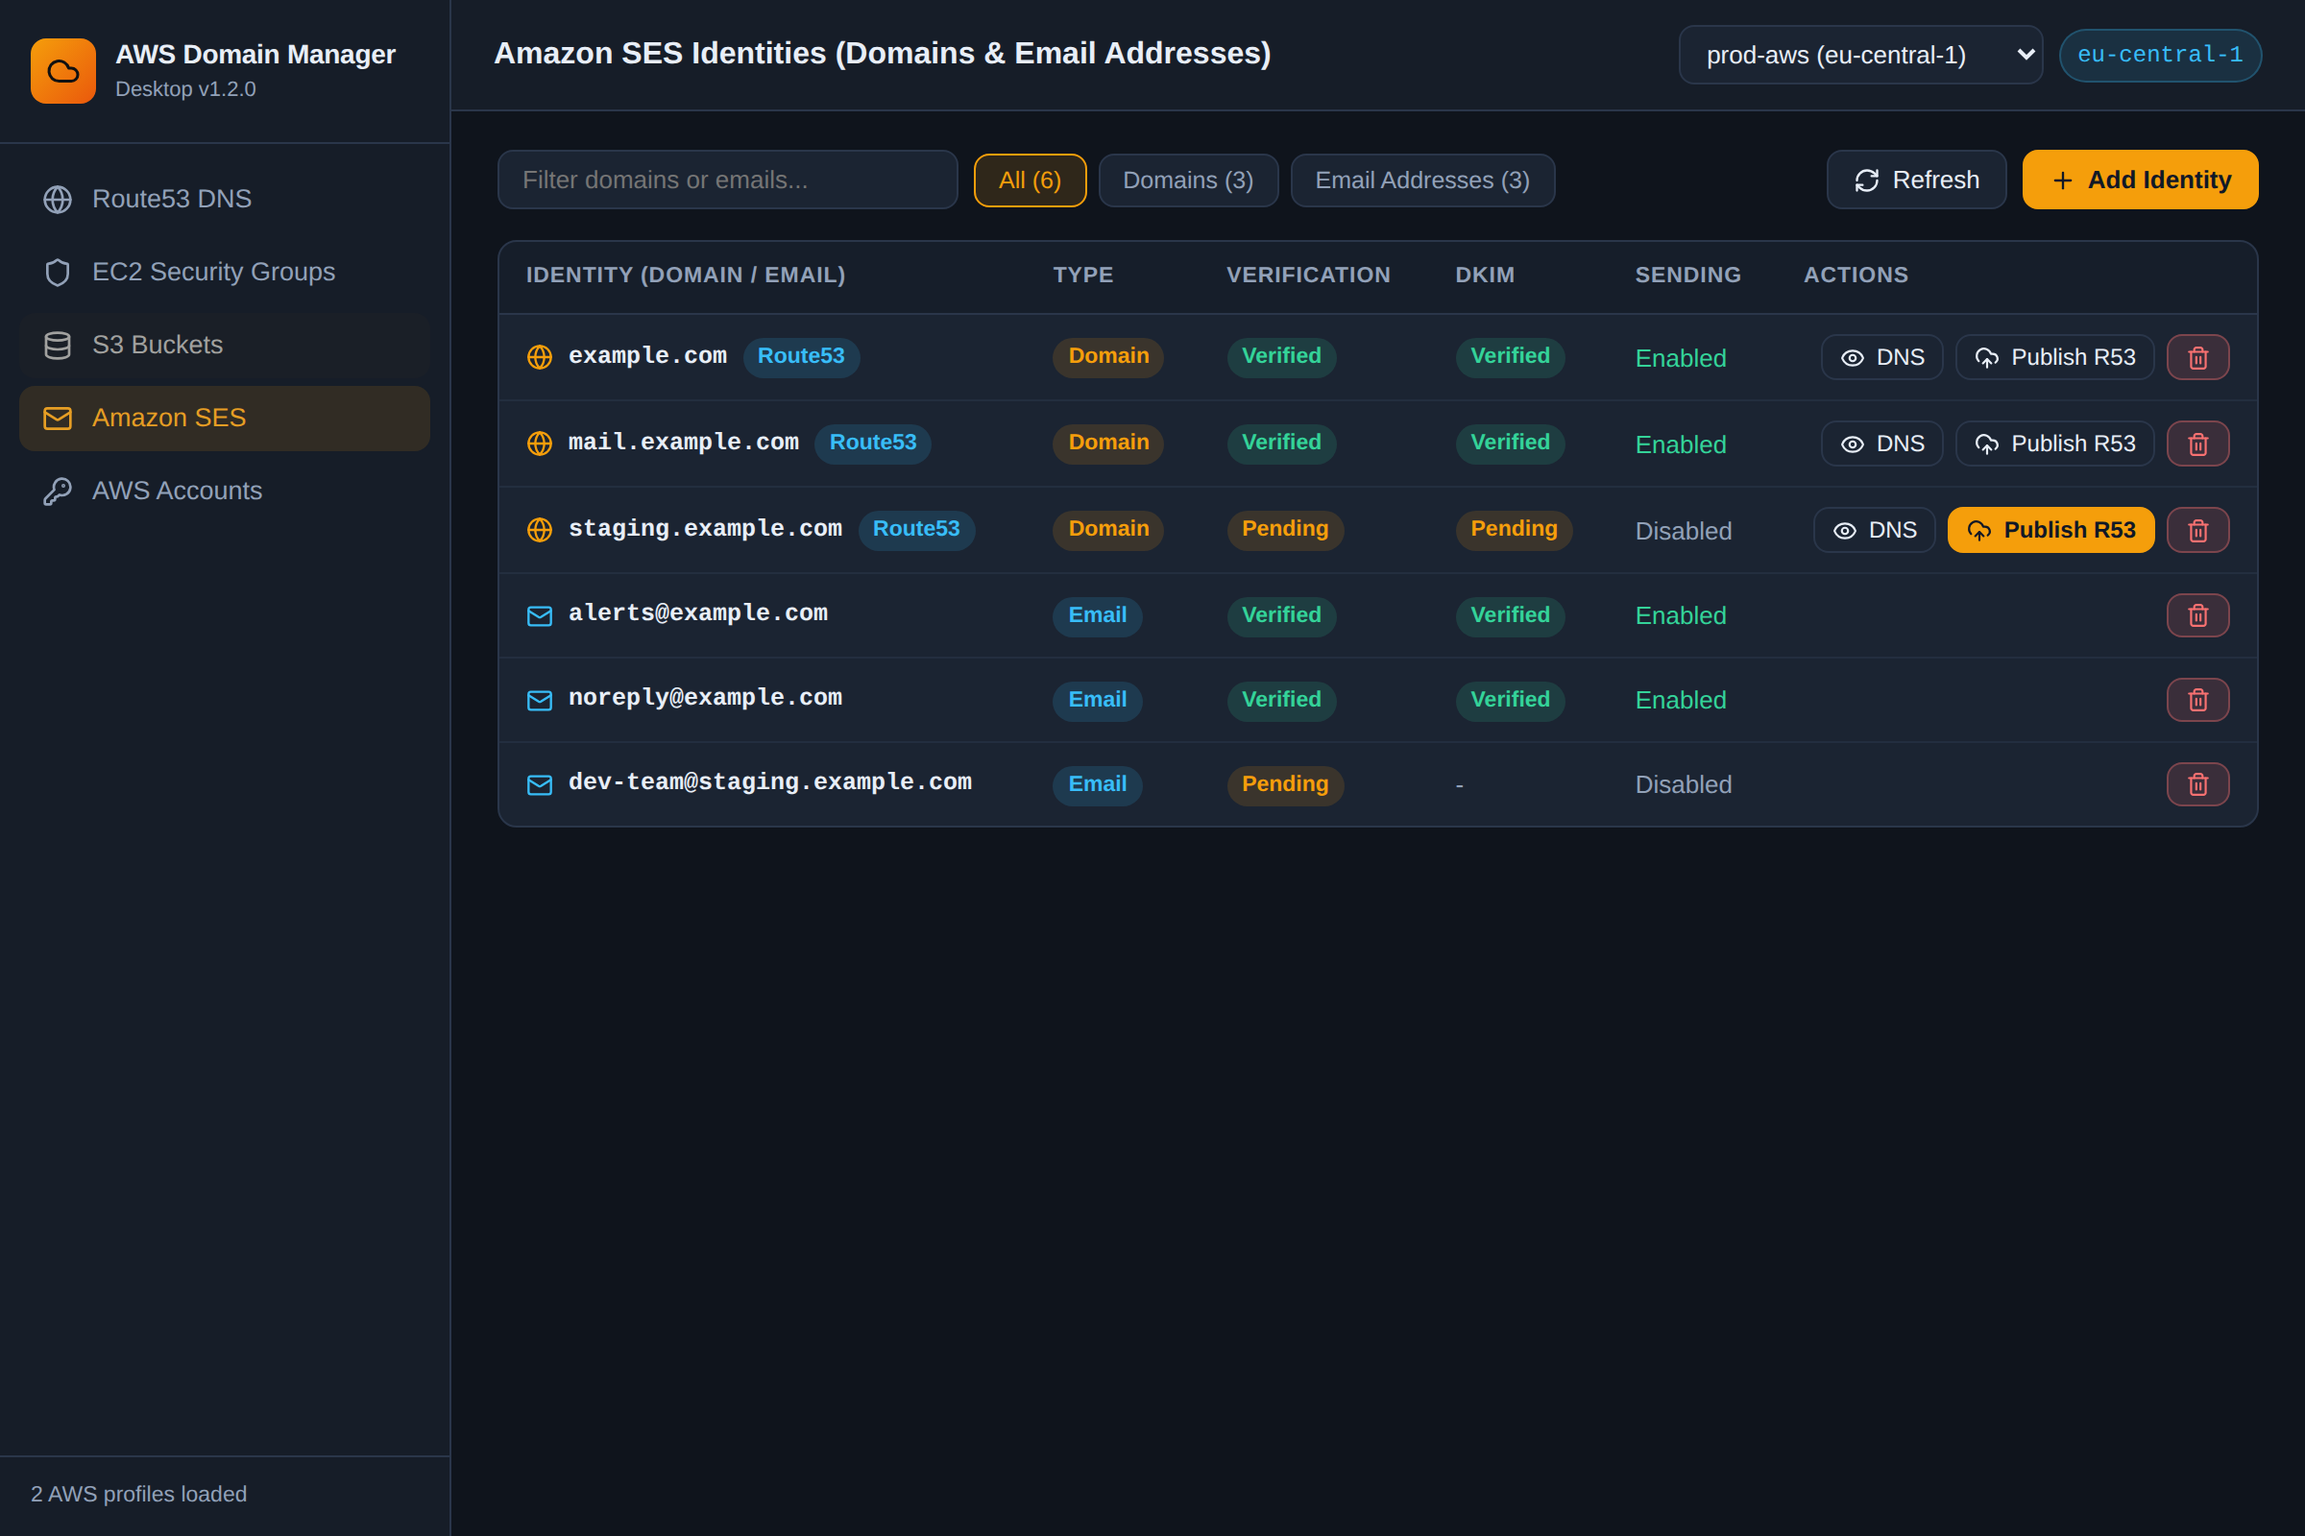
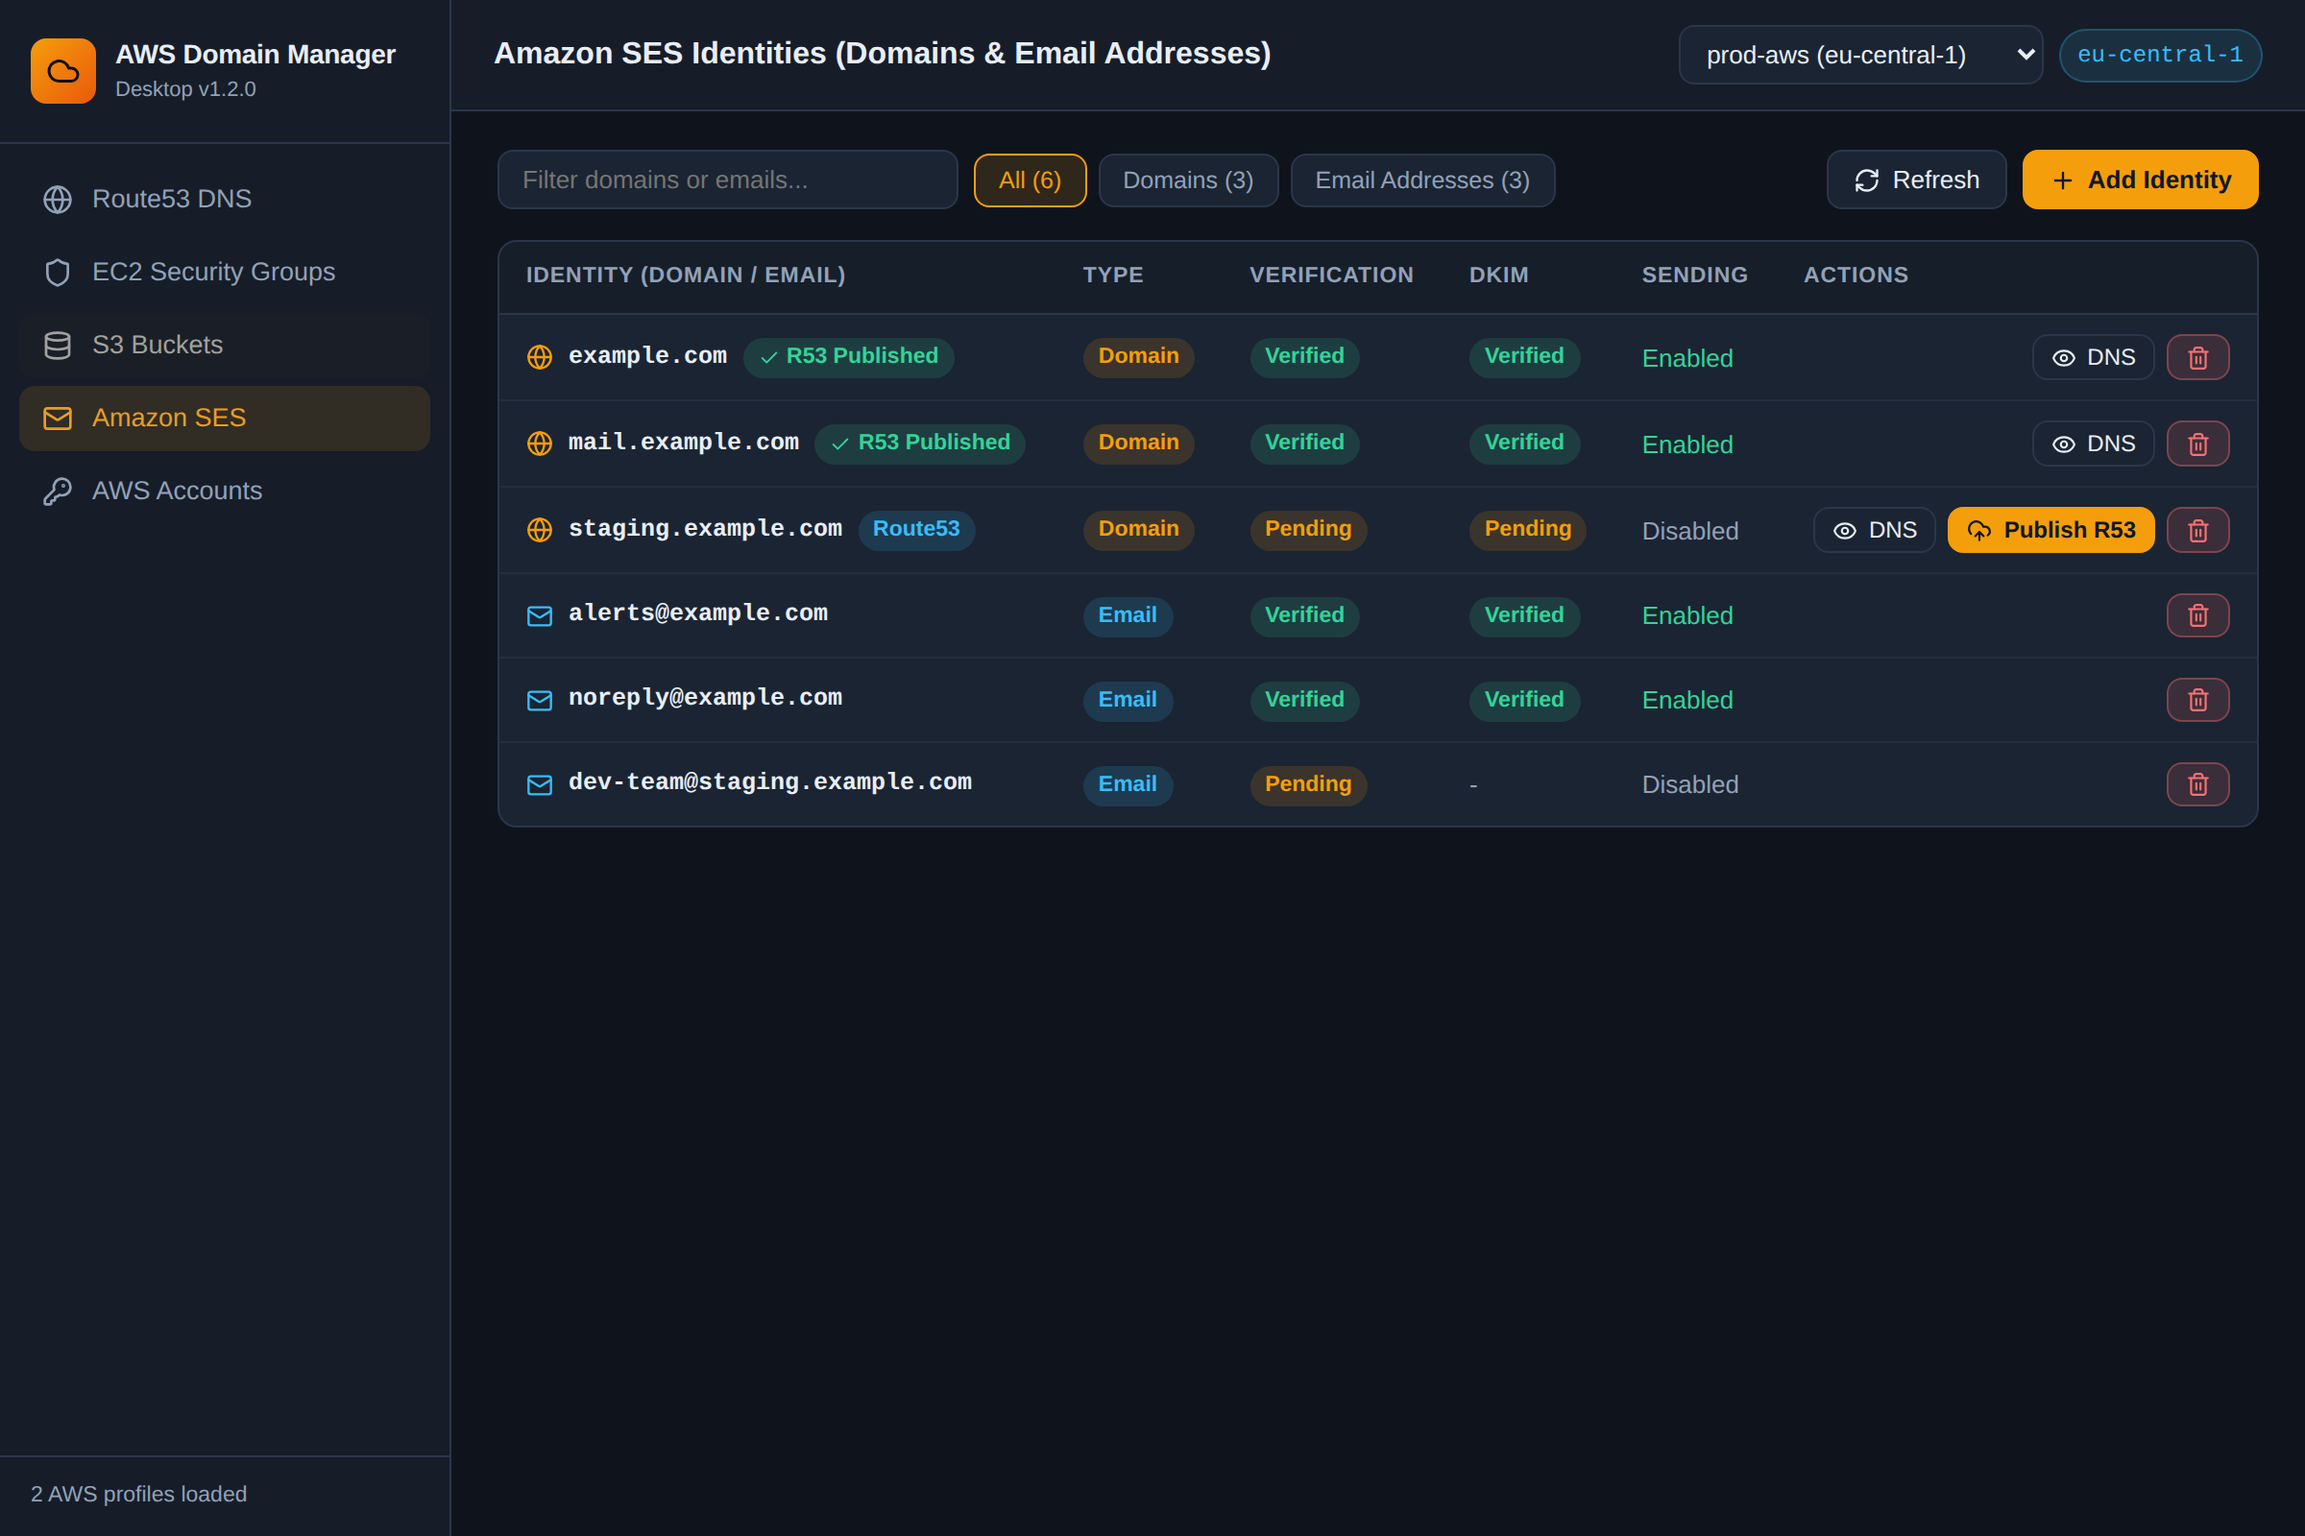
Check Route53 zone records to hide Publish R53 button when DKIM CNAMEs are already published

diff --git a/desktop/src/components/SesView.tsx b/desktop/src/components/SesView.tsx
@@ -180,7 +180,8 @@ export const SesView: React.FC<Props> = ({ account, onError, onSuccess }) => {
                 {filtered.map((item) => {
                   const isDomain = item.identityType === 'DOMAIN';
                   const hasTokens = (item.dkimTokens?.length || 0) > 0;
-                  const needsDkimPublish = isDomain && item.dkimStatus !== 'SUCCESS';
+                  const alreadyPublished =
+                    Boolean(item.dkimRecordsPublished) || item.dkimStatus === 'SUCCESS';
                   return (
                     <tr key={item.identityName}>
                       <td style={{ fontWeight: 600 }}>
@@ -193,10 +194,16 @@ export const SesView: React.FC<Props> = ({ account, onError, onSuccess }) => {
                           <span className="mono">{item.identityName}</span>
                           {item.matchedZoneName && (
                             <span
-                              className="badge badge-blue"
-                              title={`Managed in Route53 zone ${item.matchedZoneName} (${item.matchedZoneProfile || account.profile})`}
+                              className={`badge ${alreadyPublished ? 'badge-green' : 'badge-blue'}`}
+                              style={{ display: 'inline-flex', alignItems: 'center', gap: 4 }}
+                              title={
+                                alreadyPublished
+                                  ? `DKIM CNAME records published in Route53 zone ${item.matchedZoneName} (${item.matchedZoneProfile || account.profile})`
+                                  : `Managed in Route53 zone ${item.matchedZoneName} (${item.matchedZoneProfile || account.profile})`
+                              }
                             >
-                              Route53
+                              {alreadyPublished && <Check size={11} />}
+                              {alreadyPublished ? 'R53 Published' : 'Route53'}
                             </span>
                           )}
                         </div>
@@ -226,9 +233,9 @@ export const SesView: React.FC<Props> = ({ account, onError, onSuccess }) => {
                               <Eye size={13} /> DNS
                             </button>
                           )}
-                          {isDomain && (hasTokens || item.matchedZoneId) && (
+                          {isDomain && !alreadyPublished && (hasTokens || item.matchedZoneId) && (
                             <button
-                              className={`btn btn-sm ${needsDkimPublish && item.matchedZoneId ? 'btn-primary' : ''}`}
+                              className="btn btn-primary btn-sm"
                               title={
                                 item.matchedZoneName
                                   ? `Publish 3 Easy DKIM CNAME records to Route53 zone ${item.matchedZoneName}`
@@ -371,17 +378,20 @@ export const SesView: React.FC<Props> = ({ account, onError, onSuccess }) => {
               <button className="btn" onClick={() => setDkimModalTarget(null)}>
                 Close
               </button>
-              <button
-                className="btn btn-primary"
-                onClick={async () => {
-                  const target = dkimModalTarget;
-                  setDkimModalTarget(null);
-                  await handlePublishDkim(target);
-                }}
-                disabled={loading}
-              >
-                <UploadCloud size={14} /> Publish CNAME Records to Route53
-              </button>
+              {!dkimModalTarget.dkimRecordsPublished &&
+                dkimModalTarget.dkimStatus !== 'SUCCESS' && (
+                  <button
+                    className="btn btn-primary"
+                    onClick={async () => {
+                      const target = dkimModalTarget;
+                      setDkimModalTarget(null);
+                      await handlePublishDkim(target);
+                    }}
+                    disabled={loading}
+                  >
+                    <UploadCloud size={14} /> Publish CNAME Records to Route53
+                  </button>
+                )}
             </div>
           </div>
         </div>

diff --git a/src/services/sesService.js b/src/services/sesService.js
@@ -7,8 +7,10 @@ import {
 } from '@aws-sdk/client-sesv2';
 import { fromIni } from '@aws-sdk/credential-provider-ini';
 import {
+  loadRecords,
   loadAllZonesAcrossAccounts,
   matchDomainInZones,
+  checkDkimRecordsInList,
   upsertDkimCnameRecords,
 } from './route53Service.js';
 
@@ -54,6 +56,7 @@ export const loadSesIdentities = async (account, allAccounts = []) => {
       ? await loadAllZonesAcrossAccounts(account, allAccounts)
       : [];
 
+    const zoneRecordsCache = new Map();
     const identities = [];
     for (const item of rawIdentities) {
       const identityName = item.IdentityName || '';
@@ -83,6 +86,26 @@ export const loadSesIdentities = async (account, allAccounts = []) => {
       const matched =
         identityType === 'DOMAIN' ? matchDomainInZones(identityName, allZones) : null;
 
+      let dkimRecordsPublished = dkimStatus === 'SUCCESS';
+      if (!dkimRecordsPublished && matched && dkimTokens.length > 0) {
+        const zId = matched.zone.Id;
+        let records = zoneRecordsCache.get(zId);
+        if (!records) {
+          try {
+            records = await loadRecords(matched.account, matched.zone);
+          } catch {
+            records = [];
+          }
+          zoneRecordsCache.set(zId, records);
+        }
+        dkimRecordsPublished = checkDkimRecordsInList(
+          identityName,
+          matched.zone.Name,
+          dkimTokens,
+          records
+        );
+      }
+
       identities.push({
         identityName,
         identityType,
@@ -90,6 +113,7 @@ export const loadSesIdentities = async (account, allAccounts = []) => {
         verificationStatus,
         dkimStatus,
         dkimTokens,
+        dkimRecordsPublished,
         sendingEnabled: Boolean(item.SendingEnabled),
         matchedZoneId: matched?.zone?.Id || null,
         matchedZoneName: matched?.zone?.Name || null,

diff --git a/src/services/route53Service.js b/src/services/route53Service.js
@@ -244,6 +244,33 @@ export const matchDomainInZones = (domain, allZones) => {
 };
 
 /**
+ * Check whether all Easy DKIM CNAME records for a domain already exist in a Route53 zone's records
+ * @param {string} domain
+ * @param {string} zoneName
+ * @param {Array<string>} dkimTokens
+ * @param {Array<{ name: string, type: string, value: string }>} records
+ * @returns {boolean}
+ */
+export const checkDkimRecordsInList = (domain, zoneName, dkimTokens, records) => {
+  if (!dkimTokens || dkimTokens.length === 0) return false;
+  const cleanDomain = (domain || '').trim().replace(/\.$/, '').toLowerCase();
+  const cleanZone = (zoneName || '').trim().replace(/\.$/, '').toLowerCase();
+  return dkimTokens.every((token) => {
+    const t = (token || '').trim().toLowerCase();
+    if (!t) return false;
+    const expectedFqdn = `${t}._domainkey.${cleanDomain}`;
+    return (records || []).some((r) => {
+      if (r.type !== 'CNAME') return false;
+      const recFqdn =
+        !r.name || r.name === '@'
+          ? cleanZone
+          : `${r.name.toLowerCase()}.${cleanZone}`;
+      return recFqdn === expectedFqdn;
+    });
+  });
+};
+
+/**
  * Upsert Easy DKIM CNAME records for a domain into a Route53 hosted zone
  * @param {Object} zoneAccount
  * @param {string} zoneId

diff --git a/src/components/screens/SesScreen.jsx b/src/components/screens/SesScreen.jsx
@@ -192,8 +192,10 @@ const SesScreen = ({
             const typeTag = isDomain ? '[DOMAIN]' : '[EMAIL]';
             const typeColor = isSelected ? 'cyan' : isDomain ? 'yellow' : 'blue';
             const rowColor = isSelected ? 'cyan' : undefined;
+            const alreadyPublished =
+              Boolean(item.dkimRecordsPublished) || item.dkimStatus === 'SUCCESS';
             const nameWithR53 = item.matchedZoneName
-              ? `${item.identityName} [R53]`
+              ? `${item.identityName} ${alreadyPublished ? '[R53 OK]' : '[R53 !]'}`
               : item.identityName;
             const nameDisplay =
               nameWithR53.length > 34

diff --git a/desktop/src/types.ts b/desktop/src/types.ts
@@ -102,6 +102,7 @@ export interface SesIdentity {
   verificationStatus: string;
   dkimStatus: string;
   dkimTokens?: string[];
+  dkimRecordsPublished?: boolean;
   sendingEnabled: boolean;
   matchedZoneId?: string | null;
   matchedZoneName?: string | null;

diff --git a/desktop/src-tauri/src/ses.rs b/desktop/src-tauri/src/ses.rs
@@ -1,10 +1,12 @@
 use crate::aws_client::build_sdk_config;
 use crate::route53::{
-    load_all_zones_across_profiles, match_domain_in_zones, upsert_dkim_cname_records,
+    check_dkim_records_in_list, list_dns_records, load_all_zones_across_profiles,
+    match_domain_in_zones, upsert_dkim_cname_records, DnsRecordDto,
 };
 use aws_sdk_sesv2::error::{DisplayErrorContext, ProvideErrorMetadata};
 use aws_sdk_sesv2::Client;
 use serde::Serialize;
+use std::collections::HashMap;
 
 fn format_aws_err<E: ProvideErrorMetadata + std::error::Error>(err: &E) -> String {
     match (err.code(), err.message()) {
@@ -23,6 +25,7 @@ pub struct SesIdentityDto {
     pub verification_status: String,
     pub dkim_status: String,
     pub dkim_tokens: Vec<String>,
+    pub dkim_records_published: bool,
     pub sending_enabled: bool,
     pub matched_zone_id: Option<String>,
     pub matched_zone_name: Option<String>,
@@ -71,6 +74,7 @@ pub async fn list_ses_identities(profile: &str) -> Result<Vec<SesIdentityDto>, S
         Vec::new()
     };
 
+    let mut zone_records_cache: HashMap<String, Vec<DnsRecordDto>> = HashMap::new();
     let mut identities = Vec::new();
     for item in raw_identities {
         let identity_name = match item.identity_name() {
@@ -111,6 +115,28 @@ pub async fn list_ses_identities(profile: &str) -> Result<Vec<SesIdentityDto>, S
             None
         };
 
+        let mut dkim_records_published = dkim_status == "SUCCESS";
+        if !dkim_records_published && !dkim_tokens.is_empty() {
+            if let Some(mz) = &matched_zone {
+                let records = if let Some(cached) = zone_records_cache.get(&mz.zone_id) {
+                    cached.clone()
+                } else {
+                    let fetched =
+                        list_dns_records(&mz.profile, &mz.zone_id, &mz.zone_name)
+                            .await
+                            .unwrap_or_default();
+                    zone_records_cache.insert(mz.zone_id.clone(), fetched.clone());
+                    fetched
+                };
+                dkim_records_published = check_dkim_records_in_list(
+                    &identity_name,
+                    &mz.zone_name,
+                    &dkim_tokens,
+                    &records,
+                );
+            }
+        }
+
         let type_label = format_type_label(&identity_type).to_string();
         identities.push(SesIdentityDto {
             identity_name,
@@ -119,6 +145,7 @@ pub async fn list_ses_identities(profile: &str) -> Result<Vec<SesIdentityDto>, S
             verification_status,
             dkim_status,
             dkim_tokens,
+            dkim_records_published,
             sending_enabled: item.sending_enabled(),
             matched_zone_id: matched_zone.as_ref().map(|z| z.zone_id.clone()),
             matched_zone_name: matched_zone.as_ref().map(|z| z.zone_name.clone()),

diff --git a/desktop/src-tauri/src/route53.rs b/desktop/src-tauri/src/route53.rs
@@ -51,13 +51,39 @@ fn format_record_name(record_name: &str, zone_name: &str) -> String {
     }
 }
 
-fn full_record_name(name: &str, zone_name: &str) -> String {
+pub fn full_record_name(name: &str, zone_name: &str) -> String {
     let trimmed = name.trim();
     if trimmed.is_empty() || trimmed == "@" {
         zone_name.to_string()
     } else {
         format!("{}.{}", trimmed, zone_name)
     }
+}
+
+pub fn check_dkim_records_in_list(
+    domain: &str,
+    zone_name: &str,
+    dkim_tokens: &[String],
+    records: &[DnsRecordDto],
+) -> bool {
+    if dkim_tokens.is_empty() {
+        return false;
+    }
+    let clean_domain = domain.trim().trim_end_matches('.').to_ascii_lowercase();
+    dkim_tokens.iter().all(|token| {
+        let trimmed_token = token.trim().to_ascii_lowercase();
+        if trimmed_token.is_empty() {
+            return false;
+        }
+        let expected_fqdn = format!("{}._domainkey.{}", trimmed_token, clean_domain);
+        records.iter().any(|r| {
+            r.record_type == "CNAME"
+                && full_record_name(&r.name, zone_name)
+                    .trim_end_matches('.')
+                    .to_ascii_lowercase()
+                    == expected_fqdn
+        })
+    })
 }
 
 pub async fn list_hosted_zones(profile: &str) -> Result<Vec<HostedZoneDto>, String> {
